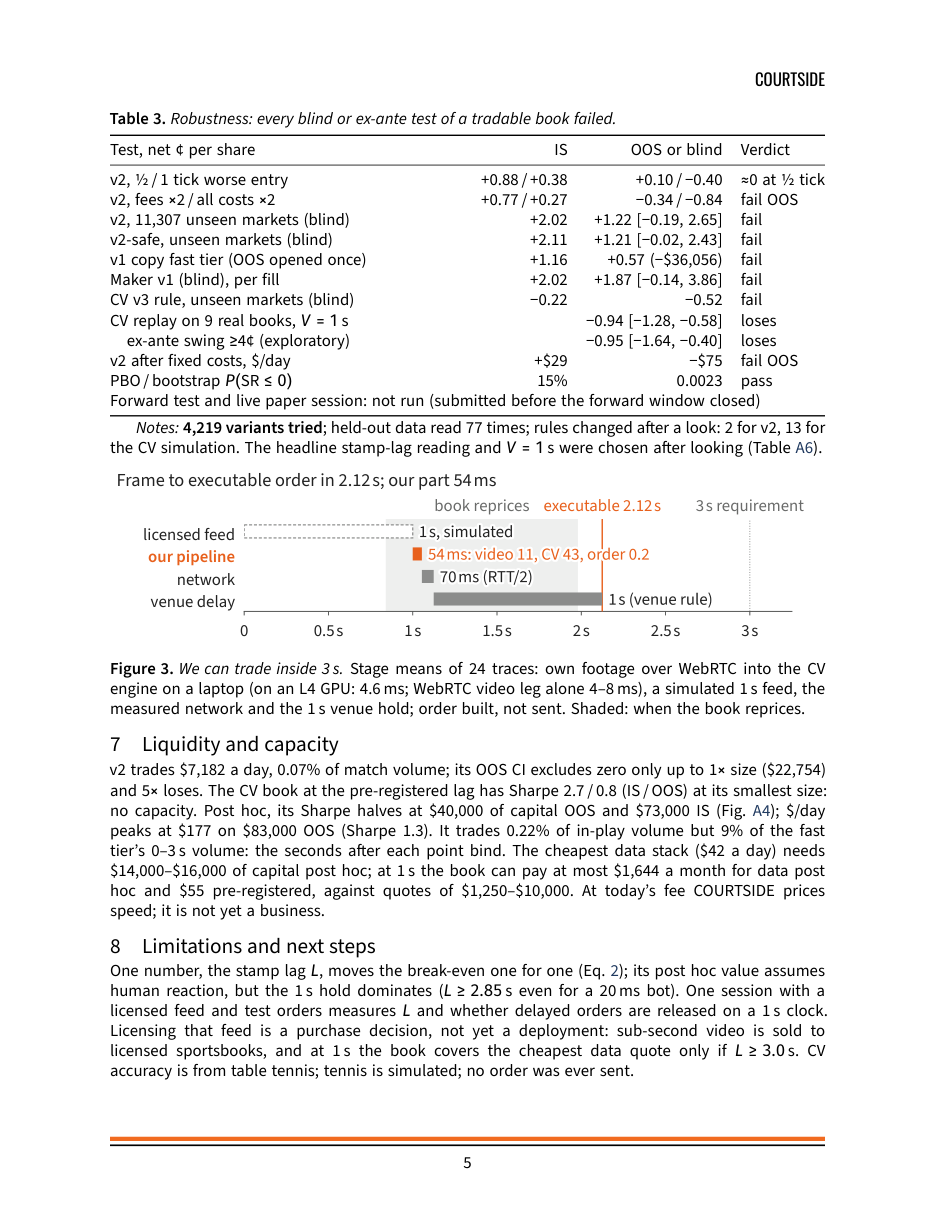
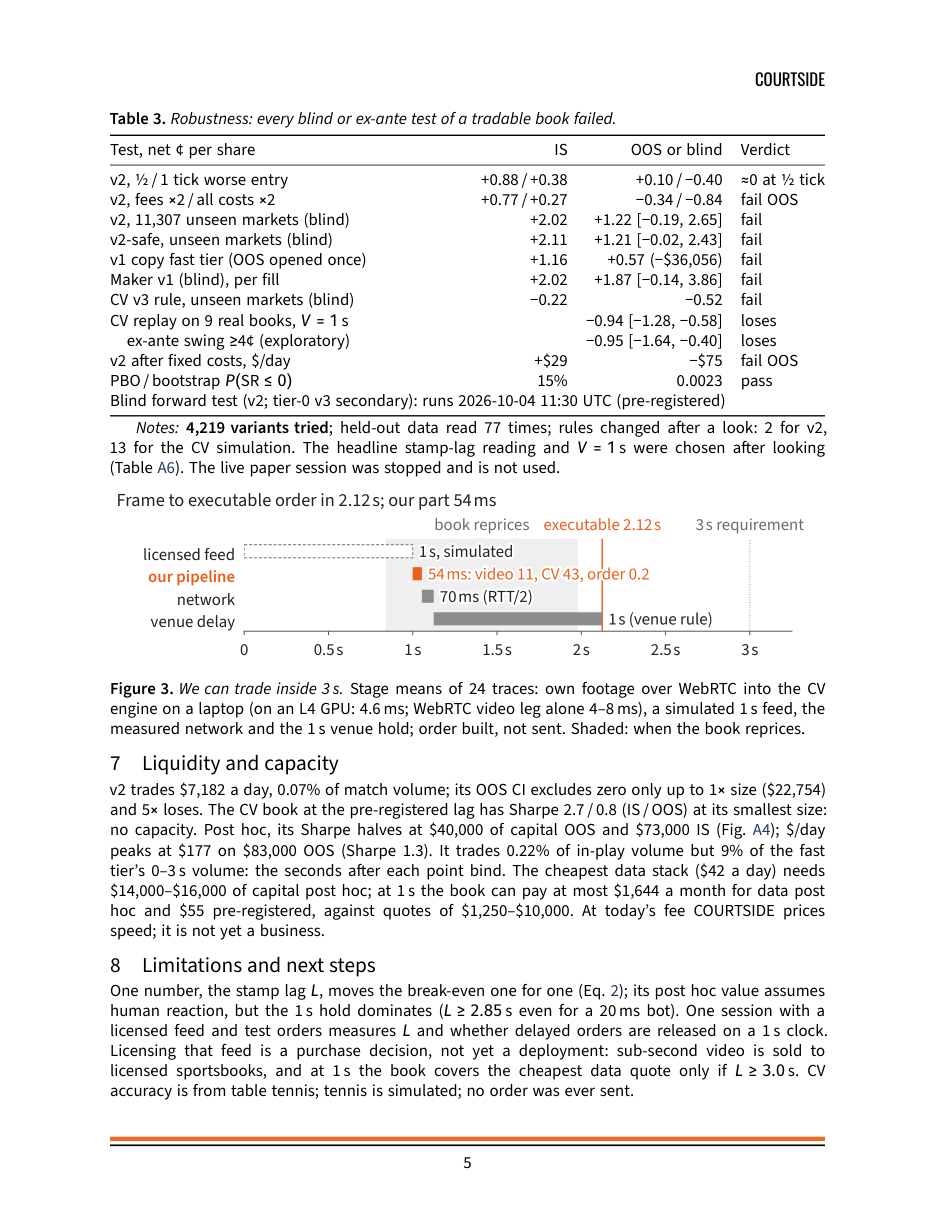
Paper: one self-filling slot for the reinstated blind forward test (HYPOTHESIS_V2 A4)
Table 3's forward row now fills from results/v2/forward.json (and the tier-0 v3 forward secondary) at build time and
until then reads 'runs 2026-10-04 11:30 UTC (pre-registered)'; the live paper session is stated once as stopped and
not used. README, COMPLIANCE and NOTE.md follow. Main text 5 pages; every main-text span >= 11 pt.

Changed region(s): [[0.1241, 0.3058, 0.8995, 0.9174]]

diff --git a/docs/NOTE.html b/docs/NOTE.html
@@ -209,8 +209,9 @@ own call table it is +$17 / +$4 (pre-registered) and +$98 /
 <p>Fees ×2 out of sample (−0.34¢); v2 on 11,307 never-examined markets (blind, FAIL);
 v2-safe's blind test (FAIL); the CV simulation's frozen v3 rule (blind, FAIL); maker v1 (blind,
 FAILURE, −$379); table tennis markets (untestable, median spread 94¢); v2 out of sample
-after a central feed licence (−$75/day); the live-book replay and its ex-ante filter. Forward test
-and live paper session: not run (submitted before the forward window closed) (<code>HYPOTHESIS_V2.md</code> A3). Variants tried: 4,219. Logged reads of
+after a central feed licence (−$75/day); the live-book replay and its ex-ante filter. Blind
+forward test (v2; tier-0 v3 secondary): runs 2026-10-04 11:30 UTC (pre-registered) (<code>HYPOTHESIS_V2.md</code> A4). The live paper session was stopped and is
+not used. Variants tried: 4,219. Logged reads of
 held-out data: 77 (Table A9 of the PDF). Everything we tested, with its best result, is Table A1 of the PDF;
 every formula with a worked example is the appendix "Calculations".</p>
 <p>Reproduce: <code>bash reproduce.sh</code> (regenerates the result files, every figure and this paper).</p></body></html>

diff --git a/scripts/build_paper.py b/scripts/build_paper.py
@@ -828,9 +828,11 @@ def collect() -> tuple[Registry, dict]:
     fwd_p = ROOT / "results/v2/forward.json"
     hv2 = (ROOT / "HYPOTHESIS_V2.md").read_text()
     a3 = re.search(r"^## Amendment A3 \(([^)]+)\): forward test not run", hv2, re.M)
-    if a3 and not fwd_p.exists():
-        N.add("fwd.notrun", "not run (submitted before the forward window closed)", a3.group(1),
-              "HYPOTHESIS_V2.md::Amendment A3; research/v2/maker/DEVIATIONS_LIVE.md L15")
+    a4 = re.search(r"^## Amendment A4 \(([^)]+)\): forward test reinstated", hv2, re.M)
+    v3_p = ROOT / "results/tier0_v3/forward/results.json"
+    # ONE slot for the blind forward test (research/compliance/PAPER_REQUIREMENTS.md, addendum 2026-10-04T02:59Z): it
+    # fills from results/v2/forward.json (and the tier-0 v3 forward secondary) at build time; until then it says when
+    # the pre-registered run happens. The live paper session stays out of the results.
     if fwd_p.exists():
         F = json.loads(fwd_p.read_text())
 
@@ -838,15 +840,28 @@ def collect() -> tuple[Registry, dict]:
             return f"{sgn(v[0])} {ci(v[1:3])}" if isinstance(v, list) and len(v) >= 3 else str(v)
         parts = []
         if "primary_A_fast_minus_others_c" in F:
-            parts.append(f"A {tri(F['primary_A_fast_minus_others_c'])} {F.get('verdict_A_fast_tier', '')}".strip())
+            parts.append(f"A {tri(F['primary_A_fast_minus_others_c'])}¢ {F.get('verdict_A_fast_tier', '')}".strip())
         if "primary_m30_per_share_c" in F:
-            parts.append(f"B {tri(F['primary_m30_per_share_c'])} {F.get('verdict_B_v2_book', '')}".strip())
+            parts.append(f"B {tri(F['primary_m30_per_share_c'])}¢ {F.get('verdict_B_v2_book', '')}".strip())
         if "v2_trades" in F:
             parts.append(f"n = {intc(F['v2_trades'])}")
-        cell = " \u00b7 ".join(parts) if parts else "see results/v2/forward.json"
+        if v3_p.exists():
+            try:
+                R3 = json.loads(v3_p.read_text())["results"]["frozen_v3"]["primary (lag 2.0 | tournament | trunc 0 | queue 0)"]["full_window"]
+                parts.append(f"v3 {sgn(R3['per_share_c'])}¢ [{num(R3['per_share_ci95_c_lo'])}, {num(R3['per_share_ci95_c_hi'])}]")
+            except (KeyError, TypeError):
+                parts.append("v3: see results/tier0_v3/forward/results.json")
+        cell = " · ".join(parts) if parts else "see results/v2/forward.json"
         status = " / ".join(str(F.get(k)) for k in ("verdict_A_fast_tier", "verdict_B_v2_book") if F.get(k)) or "reported"
-        N.add("fwd.cell", cell, F, "results/v2/forward.json")
+        N.add("fwd.cell", cell, F, "results/v2/forward.json" + (" ; results/tier0_v3/forward/results.json" if v3_p.exists() else ""))
         N.add("fwd.status", status, status, "results/v2/forward.json::verdict_*")
+    elif a4:
+        N.add("fwd.cell", "runs 2026-10-04 11:30 UTC (pre-registered)", a4.group(1),
+              "HYPOTHESIS_V2.md::Amendment A4 (results/v2/forward.json absent at build time)")
+        N.add("fwd.status", "runs once", None, "HYPOTHESIS_V2.md::Amendment A4")
+    elif a3:
+        N.add("fwd.cell", "not run (submitted before the forward window closed)", a3.group(1), "HYPOTHESIS_V2.md::Amendment A3")
+        N.add("fwd.status", "not run", None, "HYPOTHESIS_V2.md::Amendment A3")
     else:
         N.add("fwd.cell", "pending (runs once, Oct 4)", None, "results/v2/forward.json (absent at build time)")
         N.add("fwd.status", "pending", None, "results/v2/forward.json (absent at build time)")
@@ -1494,8 +1509,9 @@ own call table it is {v('cv.eng.pre.is.usd')} / {v('cv.eng.pre.oos.usd')} (pre-r
 Fees ×2 out of sample ({v('v2.oos.fx2.c')}¢); v2 on {v('u2.markets')} never-examined markets (blind, {v('u2.verdict')});
 v2-safe's blind test ({v('v2s.u2.verdict')}); the CV simulation's frozen v3 rule (blind, {v('t3.verdict')}); maker v1 (blind,
 {v('mk.verdict')}, {v('mk.oos.usd')}); table tennis markets (untestable, median spread {v('tt.spread')}¢); v2 out of sample
-after a central feed licence ({v('fin.v2.oos.net_central')}/day); the live-book replay and its ex-ante filter. Forward test
-and live paper session: {v('fwd.notrun')} (`HYPOTHESIS_V2.md` A3). Variants tried: {v('var.total')}. Logged reads of
+after a central feed licence ({v('fin.v2.oos.net_central')}/day); the live-book replay and its ex-ante filter. Blind
+forward test (v2; tier-0 v3 secondary): {v('fwd.cell')} (`HYPOTHESIS_V2.md` A4). The live paper session was stopped and is
+not used. Variants tried: {v('var.total')}. Logged reads of
 held-out data: {v('peeks.n')} (Table A9 of the PDF). Everything we tested, with its best result, is Table A1 of the PDF;
 every formula with a worked example is the appendix "Calculations".
 

diff --git a/docs/paper/note.tex b/docs/paper/note.tex
@@ -217,12 +217,13 @@ CV replay on 9 real books, \(V = 1\)\,s & & −0.94 [−1.28, −0.58] & loses \
 \quad ex-ante swing \(\geq\)4¢ (exploratory) & & −0.95 [−1.64, −0.40] & loses \\
 v2 after fixed costs, \$/day & +\$29 & −\$75 & fail OOS \\
 PBO\,/\,bootstrap \(P(\text{SR} \leq 0)\) & 15\% & 0.0023 & pass \\
-\multicolumn{4}{@{}l}{Forward test and live paper session: not run (submitted before the forward window closed)} \\
+\multicolumn{4}{@{}>{\raggedright\arraybackslash}p{\textwidth}@{}}{Blind forward test (v2; tier-0 v3 secondary): runs 2026-10-04 11:30 UTC (pre-registered)} \\
 \bottomrule
 \end{tabularx}
 \tabnotes{\emph{Notes:} \textbf{4,219 variants tried}; held-out data read 77 times;
 rules changed after a look: 2 for v2, 13 for the CV simulation. The
-headline stamp-lag reading and \(V = 1\)\,s were chosen after looking (Table~\ref{tab:A-var}).}
+headline stamp-lag reading and \(V = 1\)\,s were chosen after looking (Table~\ref{tab:A-var}). The live paper session
+was stopped and is not used.}
 \end{table}
 
 % ======================================================================================== 6 Risk

diff --git a/docs/paper/numbers.tex b/docs/paper/numbers.tex
@@ -458,9 +458,8 @@
 \expandafter\def\csname cs@peeks.audit\endcsname{25}
 \expandafter\def\csname cs@peeks.live\endcsname{22}
 \expandafter\def\csname cs@peeks.other\endcsname{2}
-\expandafter\def\csname cs@fwd.notrun\endcsname{not run (submitted before the forward window closed)}
-\expandafter\def\csname cs@fwd.cell\endcsname{pending (runs once, Oct 4)}
-\expandafter\def\csname cs@fwd.status\endcsname{pending}
+\expandafter\def\csname cs@fwd.cell\endcsname{runs 2026-10-04 11:30 UTC (pre-registered)}
+\expandafter\def\csname cs@fwd.status\endcsname{runs once}
 \expandafter\def\csname cs@live.cell\endcsname{stopped by a team decision after 0 fills; not used}
 \expandafter\def\csname cs@live.status\endcsname{stopped}
 \expandafter\def\csname cs@sc.pre.is.v05.usd\endcsname{+\$28}

diff --git a/docs/COMPLIANCE.md b/docs/COMPLIANCE.md
@@ -15,8 +15,8 @@ return/vol, max DD/worst month, turnover/skew, IS and OOS; B, the CV strategy at
 scenarios, $/day, Sharpe and ¢/share with CI, pre-registered reading first, post hoc second, break-even, per-point,
 no-early-call and live-engine rows), Table 2 (best version of each component and how it was chosen), Fig. 1 (fast tier
 by month; v2 equity curve with costs doubled), Fig. 2 ($/day against feed delay, IS and OOS, with 0.5 / 1 / 3 s lines and
-the licensed-video source band), Table 3 (robustness: costs, blind and ex-ante tests, rigor; forward test and live
-session not run), Fig. 3 (frame to executable order against the 3 s bar). Appendix: Fig. A1 latency ladder and early
+the licensed-video source band), Table 3 (robustness: costs, blind and ex-ante tests, rigor; one slot for the blind forward
+test), Fig. 3 (frame to executable order against the 3 s bar). Appendix: Fig. A1 latency ladder and early
 calls (live causal engine vs the offline evaluation with a look-ahead feature), Fig. A2 CV still, Table A1 everything
 we tested, Calculations (every formula with a worked example), Fig. A3 capacity and fixed costs, Fig. A4 CV capacity
 in $, Fig. A5 sweep by stamp lag, Tables A2–A3 sweep ($/day, Sharpe), A4 ex-ante selective replay, Fig. A6 decay and
@@ -62,7 +62,7 @@ are in `results/paper/checks.json`.
 | 23 | Sponsor data optional; free public data allowed | Met | Public Polymarket and Kalshi APIs, Ken French, OpenTTGames, TrackNet |
 | 24 | Holdout = most recent 20% or 2 years, whichever is shorter | Met (disclosed) | Last 20% of matches by start time (`src/tape.py`): 2,617 matches, 21% of volume; §3. The 11%-of-calendar-time point is in `results/v2/note_metrics.json` |
 | 25 | Set the holdout aside early and don't look | Met | Split coded before any result; everything frozen (D6) before the single v1 open (`results/oos_peeks.log` line 1) |
-| 26 | Evaluate the holdout once, at the end | Partly met | Opened once, blind, for v1 (Table 3: −$36,056). v2 and the CV simulation were designed after that, so their held-out numbers are labelled "burned (non-blind)" (abstract, §3, Table 1); v2's clean test is the blind unseen-market test (a fail, Table 3); the forward test was not run (submitted before the forward window closed; `HYPOTHESIS_V2.md` A3, Table 3); the CV simulation's clean test is the blind test of its frozen v3 rule (a fail, Table 3) |
+| 26 | Evaluate the holdout once, at the end | Partly met | Opened once, blind, for v1 (Table 3: −$36,056). v2 and the CV simulation were designed after that, so their held-out numbers are labelled "burned (non-blind)" (abstract, §3, Table 1); v2's clean test is the blind unseen-market test (a fail, Table 3); the blind forward test runs once at 11:30 UTC on Oct 4 (`HYPOTHESIS_V2.md` A4) and fills its Table 3 slot at build time; the CV simulation's clean test is the blind test of its frozen v3 rule (a fail, Table 3) |
 | 27 | Report the OOS result good or bad; report every peek in the note | Met | v1's loss, the blind-test fails and the doubled-cost loss are reported (Tables 1 and 3); Table 3 notes count the reads of held-out data (77) and Table A9 lists every line of `results/oos_peeks.log` at build time, a line logged after its run in bold |
 | 28 | Walk-forward tuning inside IS, with a purge gap | Met (disclosed) | §4 "Validation": monthly walk-forward inside IS; wallets qualify on past months |
 | 29 | Lag every signal; trade next; point-in-time data | Met (disclosed) | §4 (wallets qualify on past months only; fills at the fast tier's own prints are labelled "the opportunity at their speed, not our execution"); §5 (the onset look-ahead found and fixed, D9); copying 3 s later loses (Fig. 1a) |
@@ -79,7 +79,7 @@ are in `results/paper/checks.json`.
 | 40 | Check simple explanations; regress on known factors | Met | §6 "Tail, venue, legal": IS-only Fama–French + momentum α t = 8.48, max factor |t| 1.36; Table A5 (three specifications, the committed file flagged); Calculations C8 |
 | 41 | Size by ADV; capacity in dollars; costs double | Met | §7: v2 trades $7,182 a day, 0.07% of match volume, OOS edge survives only up to 1× size ($22,754 capital); the CV book has no capacity at the pre-registered lag; at the post hoc lag its Sharpe halves at $40,000 (OOS) / $73,000 (IS) of capital and it trades 0.22% of in-play volume (9% of the fast tier's 0–3 s volume); fixed-cost break-even capital and the most it can pay for data; Fig. A4 (Sharpe and $/day against capital), Fig. A3; doubled costs in Table 3 |
 | 42 | Limits, de-risking rules, tail and regime | Met | §6: limits and kill switches in code (`engine/risk/limits.py`) with the most one match can lose; de-risking rules set in advance; CV model risk (wrong calls, confidence gate, phantom calls and the rally gate); tail, settlement (UMA), US access, legal; factors |
-| 43 | Keep and report failures | Met | Table 3 (every blind or ex-ante test, all failed; forward test and live session not run) and the Summary box "What failed"; Table A4 (ex-ante replay); Table A1 (everything we tested); `DEVIATIONS.md` and `research/v2/tier0/DEVIATIONS.md` (rule changes after a look, counted in the Table 3 notes) |
+| 43 | Keep and report failures | Met | Table 3 (every blind or ex-ante test, all failed; the blind forward test's slot) and the Summary box "What failed"; Table A4 (ex-ante replay); Table A1 (everything we tested); `DEVIATIONS.md` and `research/v2/tier0/DEVIATIONS.md` (rule changes after a look, counted in the Table 3 notes) |
 | 44 | No funded accounts or real trading | Met | Read-only code; the engine is paper-only |
 | 45 | Respect third-party licences and terms | Partly met | README "Data, sources and licences": TrackNet code and weights carry no licence and are used unmodified, not redistributed; ESPN/WTA terms were not reviewed (only derived timings committed) |
 | 46 | Judges may re-run against held-out data | Info | `scripts/forward_test.py --start ... --end ...` runs v2 on any window |

diff --git a/README.md b/README.md
@@ -36,7 +36,7 @@ tracking can know a point is over.
 | v1 (copy the fast tier, $ sizing) | +1.16¢/share in sample; **lost $36k** on the held-out window (opened once, blind) |
 | **v2 strategy** (causal window, risk sizing `G_50pct_net100`, fee-aware wallets, 100-share net cap, hold to resolution) | **in sample** +1.38¢/share [1.17, 1.59], Sharpe 14.5 [11.9, 17.4], deflated Sharpe 0.997, max DD −2.0%, 7/7 months, +0.38¢ at +1 tick. **Burned OOS (non-blind, v2 was designed after v1's result):** +0.60¢ [0.09, 1.13], Sharpe 6.7 [1.9, 12.3], deflated Sharpe 0.075 (at 3,386 trials); ≈0 at +½ tick; **negative with costs doubled** (fees ×2: −0.34¢; all costs ×2: −0.84¢). v2-safe (net cap 50, fixed after v2's OOS losses): Sharpe 15.7 / 9.3, failed its blind unseen-market test (+1.21¢ [−0.02, 2.43]) (`docs/NOTE.pdf` Table 1) |
 | Blind test of frozen v2 on 11,307 unseen markets | in-sample period +2.02¢ (pass); out-of-sample period +1.22¢ [−0.19, 2.65] (**fail**) |
-| Blind forward test of v2; live paper session | not run: the team submitted before the pre-registered forward window closed (`HYPOTHESIS_V2.md` A3, `research/v2/maker/DEVIATIONS_LIVE.md` L15); no forward-window or live-session result is used |
+| Blind forward test of v2 (tier-0 v3 secondary) | pre-registered; reinstated before any forward data was read (`HYPOTHESIS_V2.md` A4); runs once at or after 2026-10-04 11:30 UTC → `results/v2/forward.json`; the paper's Table 3 slot fills from it at build time. The live paper session was stopped and is not used (`research/v2/maker/DEVIATIONS_LIVE.md` L15) |
 | Ball tracking | Hawk-Eye-class physics (assumed 340 fps): ±2.4 cm landing call 100 ms before the bounce. Real 120 fps table-tennis video, **live causal engine** on held-out games: 4 of 41 misses called before contact, all 4 correct (95% lower bound 51%), median lead 162.5 ms; GPU call-ready 4.6 ms p50 at 120 fps, 0 of 102,120 frames dropped (`results/engine/online_vs_offline.json`). The offline evaluation's 11 of 11 used a look-ahead feature (`engine/README.md`, Known gaps). Calls need the undistributed frozen model (judge box) |
 | **CV trader at assumed feed latencies of 0.5 / 1 / 3 s** (simulated; assumed latency, no feed purchased; parameters measured) | **pre-registered (stamp lag 2.0 s): break-even near 1 s**: held out +$15 / +$4 / −$13 a day, Sharpe 2.1 / 0.3 / −2.6; at 1 s −0.38¢/share [−2.08, 1.21]; break-even feed delay 1.01–1.09 s, i.e. the call must reach the venue ~0.89 s before the umpire's stamp. Post hoc stamp-lag inference (3.14 s, assumes courtside humans): +$81 / +$57 / −$11 a day held out (Sharpe 12.2 / 8.8 / −2.4); the same inference read per point: −$17/day at 1 s. A replay on 9 real recorded books, calling every point ex ante, loses in 36 of 36 delay × lag cells (`results/replay/replay.json`). The sweep trades only points that later moved ≥4¢ (selected on outcomes, not ex ante), so it is an upper bound (`results/tier0/latency_sweep.json`; `docs/NOTE.pdf` Table 1B, Fig. 2) |
 | Latency | the book reprices 1.2 s *before* the official point stamp; ESPN/Polymarket/WTA feeds are 27–43 s behind. Our own pipeline (video in, CV call, unsigned paper order built) takes 54 ms p50 on a laptop, measured stage by stage (CV fed at 10 frames/s, every frame; all 24 orders were timing probes on pre-match books). With a simulated 1 s feed, 65 ms of network and the venue's 1 s hold, the order is executable 2.1 s after the point, under the organizers' 3 s bar but after the median reprice (`results/e2e/summary.json`, `research/e2e/RESULTS.md`) |

diff --git a/docs/NOTE.md b/docs/NOTE.md
@@ -88,8 +88,9 @@ own call table it is +$17 / +$4 (pre-registered) and +$98 /
 Fees ×2 out of sample (−0.34¢); v2 on 11,307 never-examined markets (blind, FAIL);
 v2-safe's blind test (FAIL); the CV simulation's frozen v3 rule (blind, FAIL); maker v1 (blind,
 FAILURE, −$379); table tennis markets (untestable, median spread 94¢); v2 out of sample
-after a central feed licence (−$75/day); the live-book replay and its ex-ante filter. Forward test
-and live paper session: not run (submitted before the forward window closed) (`HYPOTHESIS_V2.md` A3). Variants tried: 4,219. Logged reads of
+after a central feed licence (−$75/day); the live-book replay and its ex-ante filter. Blind
+forward test (v2; tier-0 v3 secondary): runs 2026-10-04 11:30 UTC (pre-registered) (`HYPOTHESIS_V2.md` A4). The live paper session was stopped and is
+not used. Variants tried: 4,219. Logged reads of
 held-out data: 77 (Table A9 of the PDF). Everything we tested, with its best result, is Table A1 of the PDF;
 every formula with a worked example is the appendix "Calculations".
 
